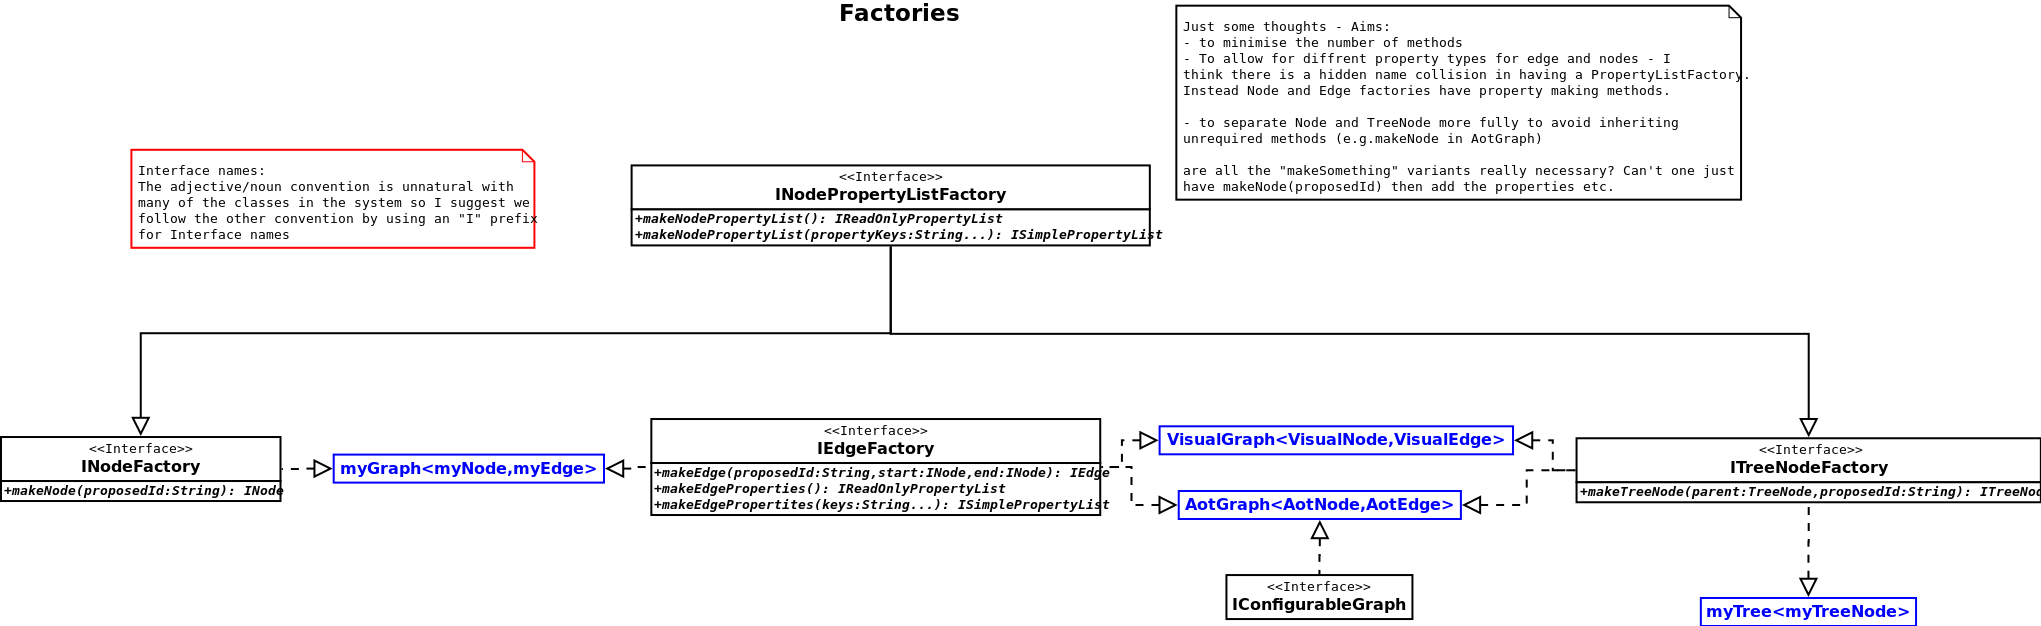
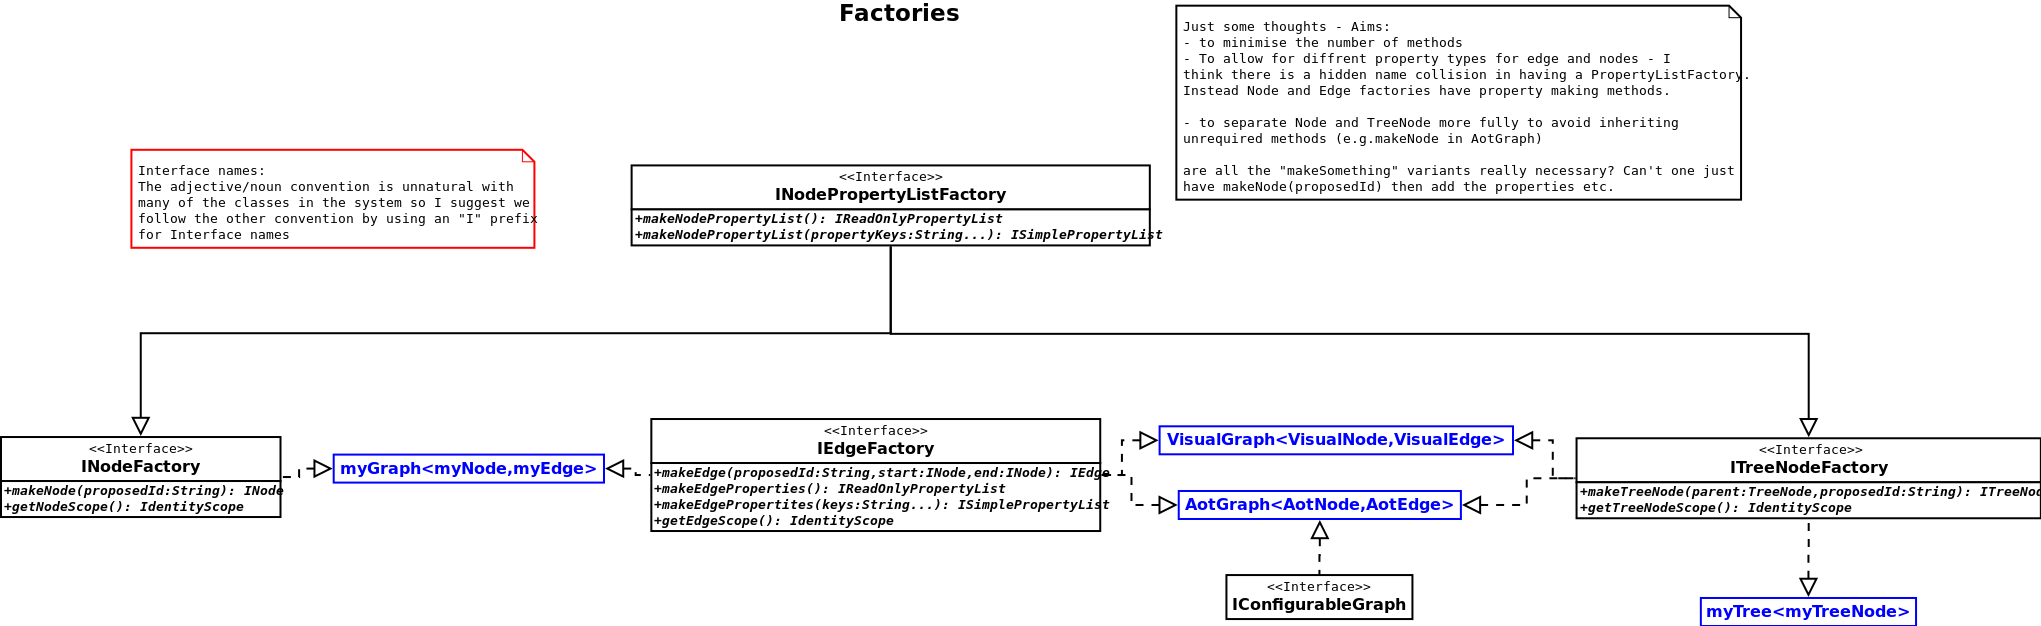
issue #9

diff --git a/omugi/src/fr/cnrs/iees/playground/graphs/AotGraph2.java b/omugi/src/fr/cnrs/iees/playground/graphs/AotGraph2.java
@@ -47,7 +47,7 @@ public class AotGraph2 extends TreeGraph2<AotNode2, AotEdge2> implements ITreeNo
 																										// ConfiguarableGraph,Textable
 {
 	private IdentityScope nodeScope;
-	private IdentityScope edgeScope;//????????????????
+	private IdentityScope edgeScope;// ????????????????
 
 	// Factories need a getScopeFunction
 	public AotGraph2() {
@@ -55,7 +55,8 @@ public class AotGraph2 extends TreeGraph2<AotNode2, AotEdge2> implements ITreeNo
 		edgeScope = new LocalScope();
 	}
 
-	// We don't need this except for Importers - probably the whole this will come unstuck there!!
+	// We don't need this except for Importers - probably the whole this will come
+	// unstuck there!!
 	@Override
 	public ReadOnlyPropertyList makeNodePropertyList() {
 		return new ExtendablePropertyListImpl();
@@ -69,7 +70,7 @@ public class AotGraph2 extends TreeGraph2<AotNode2, AotEdge2> implements ITreeNo
 	@Override
 	public IEdge makeEdge(INode start, INode end, String proposedId) {
 		Identity id = edgeScope.newId(proposedId);
-		return new AotEdge2(id,start, end, (ExtendablePropertyList) makeEdgePropertyList(), this);
+		return new AotEdge2(id, start, end, (ExtendablePropertyList) makeEdgePropertyList(), this);
 	}
 
 	@Override
@@ -86,6 +87,16 @@ public class AotGraph2 extends TreeGraph2<AotNode2, AotEdge2> implements ITreeNo
 	public ITreeNode makeTreeNode(String proposedId) {
 		Identity id = nodeScope.newId(proposedId);
 		return new AotNode2(id, (ExtendablePropertyList) makeNodePropertyList(), this);
+	}
+
+	@Override
+	public IdentityScope getEdgeScope() {
+		return edgeScope;
+	}
+
+	@Override
+	public IdentityScope getTreeNodeScope() {
+		return nodeScope;
 	}
 
 }

diff --git a/omugi/src/fr/cnrs/iees/playground/factories/IEdgeFactory.java b/omugi/src/fr/cnrs/iees/playground/factories/IEdgeFactory.java
@@ -30,6 +30,7 @@
  **************************************************************************/
 package fr.cnrs.iees.playground.factories;
 
+import fr.cnrs.iees.identity.IdentityScope;
 import fr.cnrs.iees.playground.elements.IEdge;
 import fr.cnrs.iees.playground.elements.INode;
 import fr.cnrs.iees.properties.ReadOnlyPropertyList;
@@ -40,6 +41,7 @@ public interface IEdgeFactory {
 	public IEdge makeEdge(INode start, INode end, String proposedId) ;
 	public ReadOnlyPropertyList makeEdgePropertyList();
 	public SimplePropertyList makeEdgePropertyList(String... propertyKeys);
+	public IdentityScope getEdgeScope();
 
 		
 	

diff --git a/omugi/src/fr/cnrs/iees/playground/factories/INodeFactory.java b/omugi/src/fr/cnrs/iees/playground/factories/INodeFactory.java
@@ -30,8 +30,10 @@
  **************************************************************************/
 package fr.cnrs.iees.playground.factories;
 
+import fr.cnrs.iees.identity.IdentityScope;
 import fr.cnrs.iees.playground.elements.INode;
 public interface INodeFactory extends INodePropertyListFactory{
 
 		public INode makeNode(String proposedId);	
+		public IdentityScope getNodeScope();
 }

diff --git a/omugi/src/fr/cnrs/iees/playground/factories/ITreeNodeFactory.java b/omugi/src/fr/cnrs/iees/playground/factories/ITreeNodeFactory.java
@@ -31,10 +31,12 @@
 
 package fr.cnrs.iees.playground.factories;
 
+import fr.cnrs.iees.identity.IdentityScope;
 import fr.cnrs.iees.playground.elements.ITreeNode;
 
 public interface ITreeNodeFactory  extends INodePropertyListFactory{
 	public ITreeNode makeTreeNode(String proposedId);	
+	public IdentityScope getTreeNodeScope();
 
 
 }
